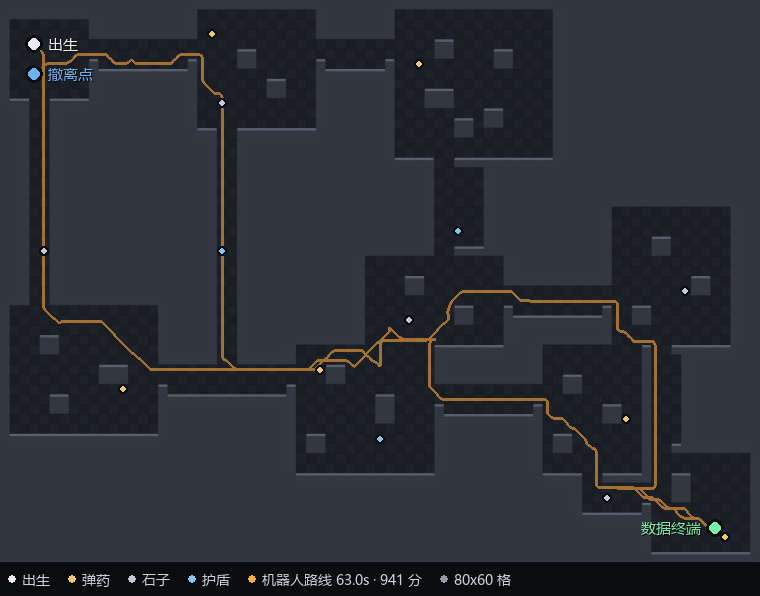
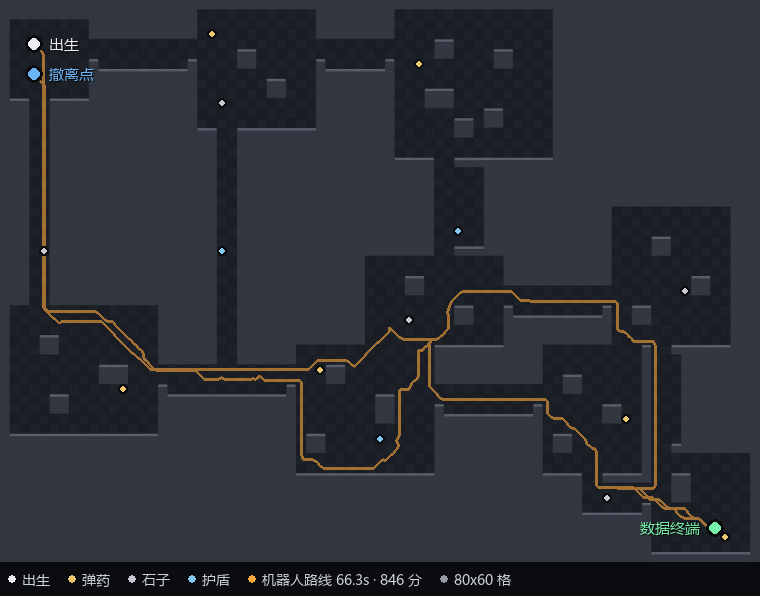
docs: 按实测重跑结果校正 README、BLOG 与演示资产
文档里的数字这一轮逐条重跑复验，改掉对不上的：

- L2→L3 台阶的统计判读整段重写。原文"区间重叠 + 差值区间跨零 → 量不出"
  是误判：重算后 Newcombe 差值区间 [+1.9%, +28.6%] 不跨零，z 检验 p=0.024、
  Fisher 双尾 p=0.037，结论方向相反。现在站得住。
- 难度表四行（门窗口率、暴露率、峰值人数、窗口率）挂很久没重跑：
  65%/2.0s/55·74·85/0% → 81%/2.8s/79·83·85/38%。曾怀疑是 v1.8.6 造成的，
  用关掉新逻辑重跑的办法证伪（四个数字一字不差），说明门窗口只由巡逻站位决定。
  真正变的是①暴露率 87%→46%、峰值 6→3 人。
- 第 5 关按 96 局重测更新：51.0%→52.1%（42~62）、103.7 秒、战死 30 / 卡死 16、
  死点 (21,11) 与 (3,29) 各 3 次（各 10%）。
- README 六处过期的 63.0s / 941 分 → 66.3s / 846 分（botrun --level 0 复验）。
  计分表、补给对照、手枪对照三张表同步，分差 163 → 289。
- 护盾段删掉无法复现的 33.2s / "多活 1.2s"（实测 dumb 与 dumb+loot 完全相同，
  looted=1 但没拿护盾），只保留 test_w11 能钉住的机制断言。
- 第 2 关录像 phase 0.25 → 0.2（0.25 在 v1.8.6 后会输），53.7s/909；
  第 3 关 36.3s/981 → 53.0s/955，补实测节点时间。
- BLOG 第 41 章"六条经验"→"七条"；两处"25 个脚本 / test_w27"→"26 个 / test_w28"。
- 重录 demo.gif（66.3s/3 次/846 分）、demo_lv2.gif、demo_lv3.gif 与
  level1_route.png，与当前 AI 行为对齐。

diff --git a/docs/releases/v1.8.7.md b/docs/releases/v1.8.7.md
@@ -19,13 +19,15 @@ git push origin v1.8.8
 
 三个 job 串行：门禁不过、打包不跑；打包不自检通过、不发布。
 
-## 三处"必须这么写"的地方
+## 四处"必须这么写"的地方
 
 **一、测试清单只能有一份。** 发布前要跑的测试，和每次 push 跑的是同一批。如果 `ci.yml` 和 `release.yml` 各抄一遍清单，迟早会漂 —— 加了 `test_w27` 只改了一边，于是"发布前测试全绿"这句话只对 push 成立，对 tag 不成立，而且**它不会报错**。所以抽成了 `test-suite.yml`（`workflow_call`），两个地方都 `uses:` 它。
 
 **二、exe 的文件名不能让流水线去改。** 默认产物叫 `潜行协议.exe`。在 Windows runner 上"重命名一个中文文件、再把结果交给下一个 shell 步骤"，中间横跨 PowerShell / cmd / Git Bash 三套编码（cp936 / cp65001），随时能咬人。与其在流水线里跟编码搏斗，不如让打包器一开始就产出最终名字：`build_exe.py` 加了 `--name`，CI 传 `StealthProtocol-v1.9.0-win64`。**中文名留给双击玩的人，ASCII 名给机器。**
 
 **三、Release 正文要能从仓库里读出来。** 敲在 `gh release create --notes "..."` 里的话，发完就进了网页，改不了、也 review 不了。现在约定 `docs/releases/<tag>.md`，首行 `# 一句话` 会被抽成标题。
+
+**四、`publish` 不能 checkout 被发布的 tag。** 这一条是第三次失败换来的：被打包的东西要来自 tag（前后必须同一个提交），打包和发布用的**工具**要来自最新提交 —— **这两条要求是相反的**。混成一个 ref，结果就是"修了流水线的 bug 却永远用不上"：修 bug 的脚本写在 `main` 上，流水线每次却从老 tag 里取工具，那个脚本在那一版里根本不存在。
 
 ## 为什么正文要留一条"自动生成"的退路
 
